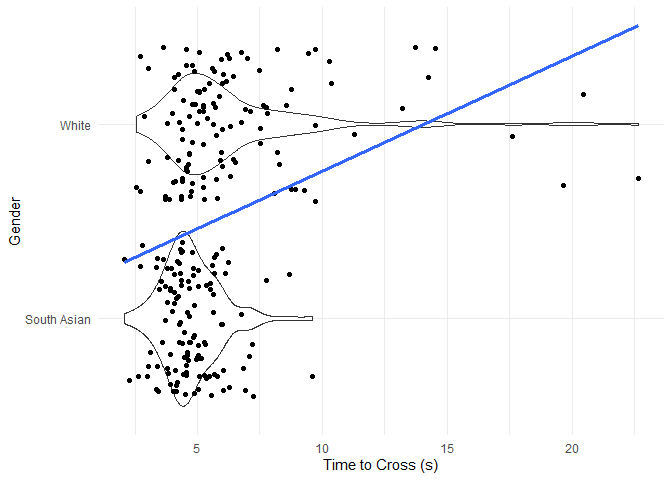
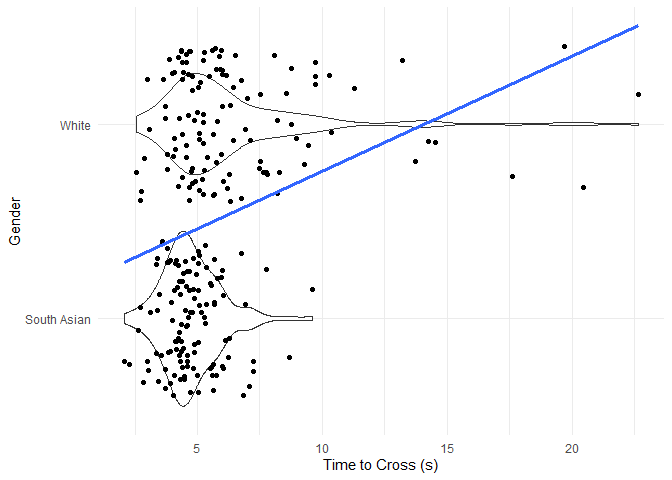
Commit from RStudio

diff --git a/racial_bias_analysis.md b/racial_bias_analysis.md
@@ -266,16 +266,20 @@ summary(m1)
 ```
 
 ``` r
-exp(coef(m1))
+exp(cbind(OR = coef(m1), confint(m1)))
 ```
 
 ```
-##                 (Intercept)                 genderwoman 
-##                   0.4525612                   1.4034791 
-##         factor(location)2nd factor(location)bessborough 
-##                   2.1336757                   4.3771795 
-##    factor(location)victoria 
-##                  14.2781016
+## Waiting for profiling to be done...
+```
+
+```
+##                                     OR     2.5 %     97.5 %
+## (Intercept)                  0.4525612 0.2407761  0.8229677
+## genderwoman                  1.4034791 0.7932319  2.4998786
+## factor(location)2nd          2.1336757 1.0282616  4.5071277
+## factor(location)bessborough  4.3771795 2.0600320  9.6355154
+## factor(location)victoria    14.2781016 5.7897250 39.7267017
 ```
 
 # 5b2. Ethnicity - Location fixed effects
@@ -329,16 +333,20 @@ summary(m2)
 ```
 
 ``` r
-exp(coef(m2))
+exp(cbind(OR = coef(m2), confint(m2)))
 ```
 
 ```
-##                 (Intercept)              ethnicitywhite 
-##                   0.5853231                   0.8444752 
-##         factor(location)2nd factor(location)bessborough 
-##                   2.1252318                   4.3441853 
-##    factor(location)victoria 
-##                  14.1148880
+## Waiting for profiling to be done...
+```
+
+```
+##                                     OR     2.5 %    97.5 %
+## (Intercept)                  0.5853231 0.3164848  1.056138
+## ethnicitywhite               0.8444752 0.4759717  1.493318
+## factor(location)2nd          2.1252318 1.0261961  4.479527
+## factor(location)bessborough  4.3441853 2.0489757  9.538151
+## factor(location)victoria    14.1148880 5.7372934 39.175898
 ```
 
 # 5b3. Gender + Ethnicity - Location fixed effects
@@ -394,16 +402,21 @@ summary(m3)
 ```
 
 ``` r
-exp(coef(m3))
+exp(cbind(OR = coef(m3), confint(m3)))
 ```
 
 ```
-##                 (Intercept)                 genderwoman 
-##                   0.4920680                   1.4042115 
-##              ethnicitywhite         factor(location)2nd 
-##                   0.8435989                   2.1365047 
-## factor(location)bessborough    factor(location)victoria 
-##                   4.3882738                  14.3335038
+## Waiting for profiling to be done...
+```
+
+```
+##                                     OR     2.5 %     97.5 %
+## (Intercept)                  0.4920680 0.2468425  0.9520808
+## genderwoman                  1.4042115 0.7932971  2.5023564
+## ethnicitywhite               0.8435989 0.4746194  1.4943785
+## factor(location)2nd          2.1365047 1.0289538  4.5163801
+## factor(location)bessborough  4.3882738 2.0637465  9.6682961
+## factor(location)victoria    14.3335038 5.8074735 39.9143688
 ```
 
 # 5b4. Gender*Ethnicity - Location fixed effects
@@ -461,18 +474,22 @@ summary(m4)
 ```
 
 ``` r
-exp(coef(m4))
+exp(cbind(OR = coef(m4), confint(m4)))
 ```
 
 ```
-##                 (Intercept)                 genderwoman 
-##                   0.9133814                   0.3393063 
-##              ethnicitywhite         factor(location)2nd 
-##                   0.2030472                   2.3513765 
-## factor(location)bessborough    factor(location)victoria 
-##                   5.2821285                  18.9371865 
-##  genderwoman:ethnicitywhite 
-##                  17.8910219
+## Waiting for profiling to be done...
+```
+
+```
+##                                     OR      2.5 %     97.5 %
+## (Intercept)                  0.9133814 0.42733272  1.9545370
+## genderwoman                  0.3393063 0.14146329  0.7860240
+## ethnicitywhite               0.2030472 0.08271783  0.4747544
+## factor(location)2nd          2.3513765 1.08154201  5.2356170
+## factor(location)bessborough  5.2821285 2.35559189 12.4086193
+## factor(location)victoria    18.9371865 7.23640896 56.0824742
+## genderwoman:ethnicitywhite  17.8910219 5.25590862 65.0829075
 ```
 
 # 6. Mean umber of cars before yield
@@ -1136,16 +1153,20 @@ summary(m13)
 ```
 
 ``` r
-exp(coef(m13))
+exp(cbind(OR = coef(m13), confint(m13)))
 ```
 
 ```
-##                 (Intercept)                 genderwoman 
-##                  14.9041495                   0.4048974 
-##         factor(location)2nd factor(location)bessborough 
-##                   0.7526476                   3.2389832 
-##    factor(location)victoria 
-##                   1.0285116
+## Waiting for profiling to be done...
+```
+
+```
+##                                     OR     2.5 %    97.5 %
+## (Intercept)                 14.9041495 5.2007204 54.818493
+## genderwoman                  0.4048974 0.1377931  1.060964
+## factor(location)2nd          0.7526476 0.2066743  2.563823
+## factor(location)bessborough  3.2389832 0.6575368 23.514220
+## factor(location)victoria     1.0285116 0.2767083  3.675443
 ```
 
 # 8b2. Ethnicity - Location fixed effects
@@ -1201,16 +1222,20 @@ summary(m14)
 ```
 
 ``` r
-exp(coef(m14))
+exp(cbind(OR = coef(m14), confint(m14)))
 ```
 
 ```
-##                 (Intercept)              ethnicitywhite 
-##                  12.6055692                   0.5090231 
-##         factor(location)2nd factor(location)bessborough 
-##                   0.7665862                   3.2804249 
-##    factor(location)victoria 
-##                   1.0469872
+## Waiting for profiling to be done...
+```
+
+```
+##                                     OR     2.5 %    97.5 %
+## (Intercept)                 12.6055692 4.5954919 43.833472
+## ethnicitywhite               0.5090231 0.1833167  1.306561
+## factor(location)2nd          0.7665862 0.2115107  2.599331
+## factor(location)bessborough  3.2804249 0.6682891 23.763271
+## factor(location)victoria     1.0469872 0.2829078  3.726134
 ```
 
 # 8b3. Gender + Ethnicity - Location fixed effects
@@ -1268,16 +1293,21 @@ summary(m15)
 ```
 
 ``` r
-exp(coef(m15))
+exp(cbind(OR = coef(m15), confint(m15)))
 ```
 
 ```
-##                 (Intercept)                 genderwoman 
-##                  21.2143403                   0.4136137 
-##              ethnicitywhite         factor(location)2nd 
-##                   0.5236280                   0.7590474 
-## factor(location)bessborough    factor(location)victoria 
-##                   3.2628473                   1.0247388
+## Waiting for profiling to be done...
+```
+
+```
+##                                     OR     2.5 %    97.5 %
+## (Intercept)                 21.2143403 6.4148763 90.782113
+## genderwoman                  0.4136137 0.1402817  1.089005
+## ethnicitywhite               0.5236280 0.1873490  1.355341
+## factor(location)2nd          0.7590474 0.2071320  2.604681
+## factor(location)bessborough  3.2628473 0.6589395 23.773160
+## factor(location)victoria     1.0247388 0.2740914  3.683563
 ```
 
 # 8b4. Gender*Ethnicity - Location fixed effects
@@ -1337,18 +1367,22 @@ summary(m16)
 ```
 
 ``` r
-exp(coef(m16))
+exp(cbind(OR = coef(m16), confint(m16)))
 ```
 
 ```
-##                 (Intercept)                 genderwoman 
-##                  15.5043836                   0.6869039 
-##              ethnicitywhite         factor(location)2nd 
-##                   0.9163251                   0.7647626 
-## factor(location)bessborough    factor(location)victoria 
-##                   3.2754325                   1.0172375 
-##  genderwoman:ethnicitywhite 
-##                   0.4262466
+## Waiting for profiling to be done...
+```
+
+```
+##                                     OR      2.5 %    97.5 %
+## (Intercept)                 15.5043836 4.34462702 80.414578
+## genderwoman                  0.6869039 0.12886893  3.292783
+## ethnicitywhite               0.9163251 0.16169226  5.191345
+## factor(location)2nd          0.7647626 0.20788930  2.635870
+## factor(location)bessborough  3.2754325 0.65914893 23.925324
+## factor(location)victoria     1.0172375 0.27094598  3.671142
+## genderwoman:ethnicitywhite   0.4262466 0.04990583  3.442809
 ```
 
 # 9. Cars stop close or far 
@@ -1489,16 +1523,20 @@ summary(m17)
 ```
 
 ``` r
-exp(coef(m17))
+exp(cbind(OR = coef(m17), confint(m17)))
 ```
 
 ```
-##                 (Intercept)                 genderwoman 
-##                   5.2483813                   0.9123412 
-##         factor(location)2nd factor(location)bessborough 
-##                   3.3306221                  11.3818228 
-##    factor(location)victoria 
-##                   3.7936800
+## Waiting for profiling to be done...
+```
+
+```
+##                                     OR     2.5 %     97.5 %
+## (Intercept)                  5.2483813 2.1622025  14.928734
+## genderwoman                  0.9123412 0.3021483   2.699599
+## factor(location)2nd          3.3306221 0.8982217  15.961952
+## factor(location)bessborough 11.3818228 1.9769385 215.427482
+## factor(location)victoria     3.7936800 1.0269718  18.135619
 ```
 
 # 9c2. Ethnicity - Location fixed effects
@@ -1554,16 +1592,20 @@ summary(m18)
 ```
 
 ``` r
-exp(coef(m18))
+exp(cbind(OR = coef(m18), confint(m18)))
 ```
 
 ```
-##                 (Intercept)              ethnicitywhite 
-##                    3.148652                    3.123645 
-##         factor(location)2nd factor(location)bessborough 
-##                    3.406303                   11.894337 
-##    factor(location)victoria 
-##                    3.929574
+## Waiting for profiling to be done...
+```
+
+```
+##                                    OR     2.5 %     97.5 %
+## (Intercept)                  3.148652 1.3876832   7.959711
+## ethnicitywhite               3.123645 1.0039833  11.817222
+## factor(location)2nd          3.406303 0.9028614  16.550190
+## factor(location)bessborough 11.894337 2.0367407 226.490055
+## factor(location)victoria     3.929574 1.0464167  19.038902
 ```
 
 # 9c3. Gender + Ethnicity - Location fixed effects
@@ -1621,16 +1663,21 @@ summary(m19)
 ```
 
 ``` r
-exp(coef(m19))
+exp(cbind(OR = coef(m19), confint(m19)))
 ```
 
 ```
-##                 (Intercept)                 genderwoman 
-##                   3.3842418                   0.8678586 
-##              ethnicitywhite         factor(location)2nd 
-##                   3.1445132                   3.3968473 
-## factor(location)bessborough    factor(location)victoria 
-##                  11.8732114                   3.9262930
+## Waiting for profiling to be done...
+```
+
+```
+##                                     OR     2.5 %     97.5 %
+## (Intercept)                  3.3842418 1.2707759  10.289725
+## genderwoman                  0.8678586 0.2828300   2.605283
+## ethnicitywhite               3.1445132 1.0092503  11.912880
+## factor(location)2nd          3.3968473 0.8999814  16.507363
+## factor(location)bessborough 11.8732114 2.0324021 226.116921
+## factor(location)victoria     3.9262930 1.0450692  19.029818
 ```
 
 # 9c4. Gender*Ethnicity - Location fixed effects
@@ -1690,18 +1737,22 @@ summary(m20)
 ```
 
 ``` r
-exp(coef(m20))
+exp(cbind(OR = coef(m20), confint(m20)))
 ```
 
 ```
-##                 (Intercept)                 genderwoman 
-##                   3.5989542                   0.7710282 
-##              ethnicitywhite         factor(location)2nd 
-##                   2.5296422                   3.3867670 
-## factor(location)bessborough    factor(location)victoria 
-##                  11.9007476                   3.9450151 
-##  genderwoman:ethnicitywhite 
-##                   1.5064690
+## Waiting for profiling to be done...
+```
+
+```
+##                                     OR     2.5 %     97.5 %
+## (Intercept)                  3.5989542 1.2752995  12.149752
+## genderwoman                  0.7710282 0.2012320   2.843561
+## ethnicitywhite               2.5296422 0.5004154  18.701087
+## factor(location)2nd          3.3867670 0.8964830  16.467979
+## factor(location)bessborough 11.9007476 2.0359298 226.699991
+## factor(location)victoria     3.9450151 1.0491610  19.135535
+## genderwoman:ethnicitywhite   1.5064690 0.1241437  18.460814
 ```
 
 # 10. Histograms